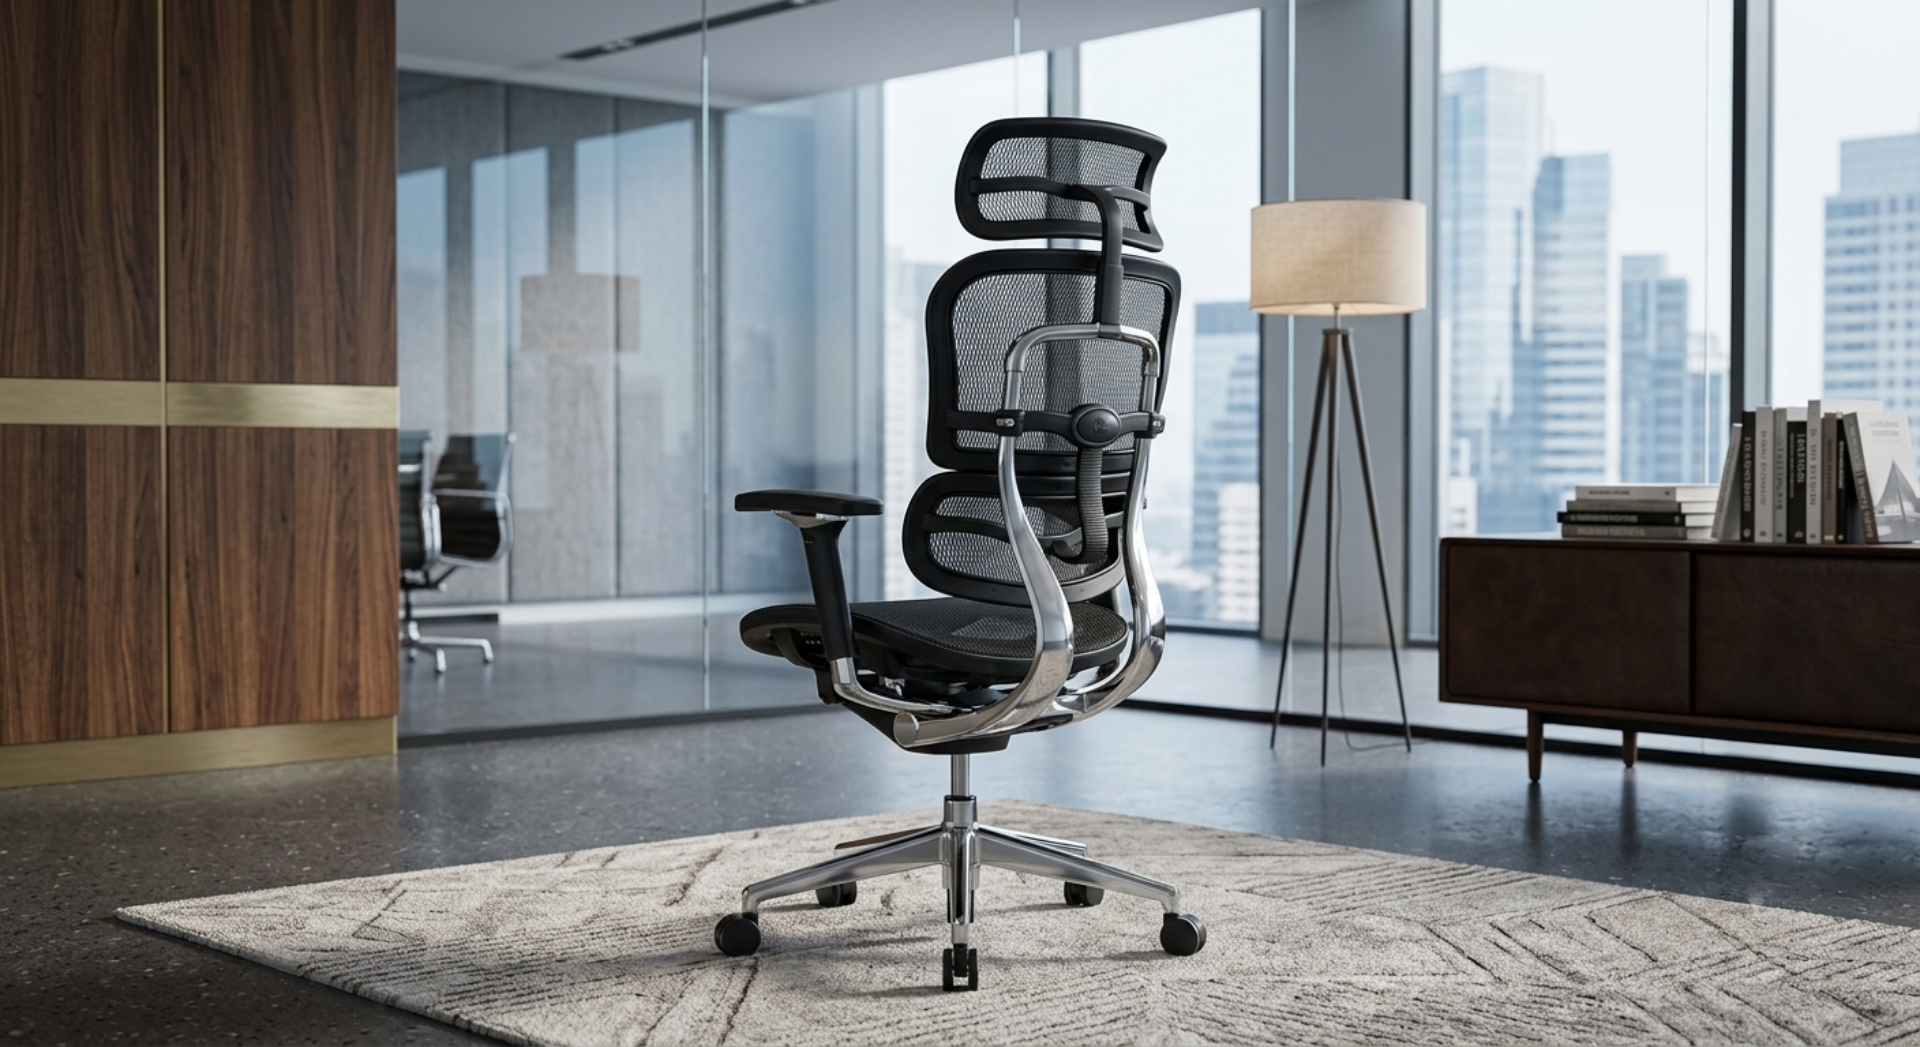
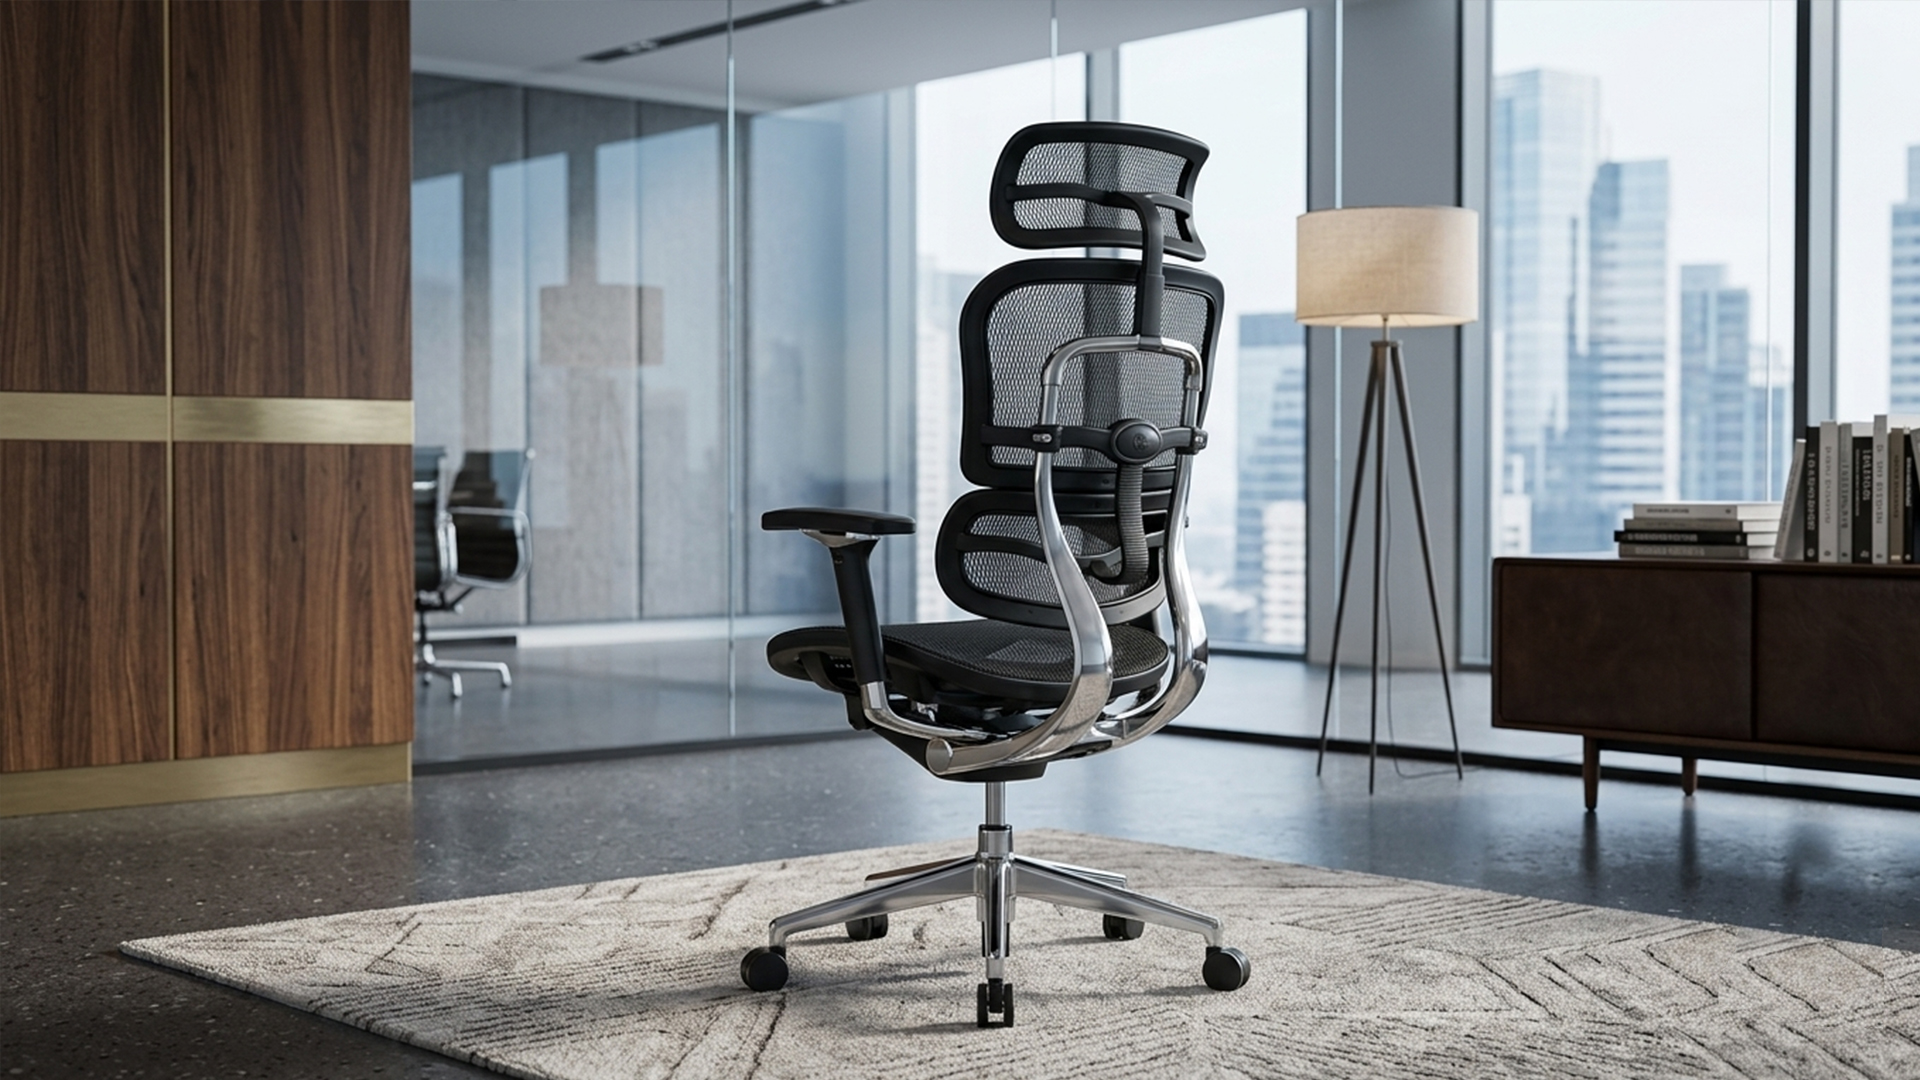
changes 01

diff --git a/Html/about.html b/Html/about.html
@@ -137,6 +137,155 @@
 
 
 
+
+<div class="my-counter-section">
+  <style>
+
+
+    .my-counter-section {
+      box-sizing: border-box;
+      font-family: 'Montserrat', sans-serif;
+     
+      background: linear-gradient(rgba(255, 255, 255, 0.4), rgba(255, 255, 255, 0.4)), 
+                  url('https://images.unsplash.com/photo-1499750310107-5fef28a66643?q=80&w=1600') no-repeat center center/cover;
+      padding: 80px 20px;
+      display: block;
+      margin-top: 150px;
+      margin-bottom: 100px;
+      width: 100%;
+    }
+
+    .my-counter-section *, .my-counter-section *::before, .my-counter-section *::after {
+      box-sizing: border-box;
+    }
+
+    /* Cards Grid Layout */
+    .my-counter-container {
+      display: grid;
+      grid-template-columns: repeat(4, 1fr);
+      gap: 25px;
+      width: 100%;
+      max-width: 1140px;
+      margin: 0 auto;
+    }
+
+    /* Exact White Card Design Like Screenshot */
+    .my-counter-card {
+      background-color: #ffffff;
+      border-radius: 15px;
+      padding: 45px 20px;
+      text-align: center;
+      box-shadow: 0 10px 30px rgba(0, 0, 0, 0.06);
+      transition: transform 0.3s ease;
+    }
+
+    .my-counter-card:hover {
+      transform: translateY(-5px);
+    }
+
+    /* Target Number Color & Typography */
+    .my-counter-number {
+      font-size: 3.2rem;
+      font-weight: 700;
+      color: #a34e56; /* Screenshot wala Maroon/Dusty Rose color */
+      margin-bottom: 15px;
+      display: block;
+      line-height: 1;
+    }
+
+    /* Bottom Labels */
+    .my-counter-label {
+      font-size: 0.75rem;
+      font-weight: 700;
+      color: #555555;
+      text-transform: uppercase;
+      letter-spacing: 1.2px;
+      display: block;
+    }
+
+    /* Responsive (Mobile aur Tablet ke liye) */
+    @media (max-width: 992px) {
+      .my-counter-container {
+        grid-template-columns: repeat(2, 1fr);
+      }
+    }
+    @media (max-width: 576px) {
+      .my-counter-container {
+        grid-template-columns: 1fr;
+      }
+    }
+  </style>
+
+  <div class="my-counter-container">
+    <div class="my-counter-card">
+      <span class="my-counter-number" data-target="37">0</span>
+      <span class="my-counter-label">Hot Destinations</span>
+    </div>
+
+    <div class="my-counter-card">
+      <span class="my-counter-number" data-target="8000" data-suffix="K">0</span>
+      <span class="my-counter-label">Happy Clients</span>
+    </div>
+
+    <div class="my-counter-card">
+      <span class="my-counter-number" data-target="85">0</span>
+      <span class="my-counter-label">Cups of Coffee</span>
+    </div>
+
+    <div class="my-counter-card">
+      <span class="my-counter-number" data-target="77">0</span>
+      <span class="my-counter-label">Visited Countries</span>
+    </div>
+  </div>
+
+  <script>
+    (function() {
+      const counters = document.querySelectorAll('.my-counter-number');
+      const speed = 80; // Animation speed
+
+      const startCounting = (counter) => {
+        const target = +counter.getAttribute('data-target');
+        const suffix = counter.getAttribute('data-suffix') || '';
+        let count = 0;
+        const increment = target / speed;
+
+        const updateCount = () => {
+          count += increment;
+          if (count < target) {
+            if (suffix === 'K') {
+              counter.innerText = Math.ceil(count / 1000) + suffix;
+            } else {
+              counter.innerText = Math.ceil(count);
+            }
+            setTimeout(updateCount, 20);
+          } else {
+            if (suffix === 'K') {
+              counter.innerText = (target / 1000) + suffix;
+            } else {
+              counter.innerText = target;
+            }
+          }
+        };
+        updateCount();
+      };
+
+      // Scroll observer - Jab screen pe section aayega tabhi count shuru hoga
+      const observer = new IntersectionObserver((entries, observer) => {
+        entries.forEach(entry => {
+          if (entry.isIntersecting) {
+            startCounting(entry.target);
+            observer.unobserve(entry.target);
+          }
+        });
+      }, { threshold: 0.3 });
+
+      counters.forEach(counter => observer.observe(counter));
+    })();
+  </script>
+</div>
+
+
+
 <!-- About intro img -->
 <section class="image-section">
     <div class="image-container reveal">

diff --git a/index.html b/index.html
@@ -78,61 +78,101 @@
 <!-- Banar section start --> 
 
 <div class="slider">
-
-    <!-- Slides -->         
-   <div class="slides">
+<!-- Slides -->         
+<div class="slides">
 
     <div class="slide">
-        <img src="img/product/1.jpg" alt="">
+        <picture>
+            <source media="(max-width: 767px)" srcset="img/home/m-1.jpg">
+            <img src="img/product/1.jpg" alt="">
+        </picture>
         <h2 class="slide-title">01 Fresh Food Experience</h2>
     </div>
 
+
     <div class="slide">
-        <img src="img/product/2.jpg" alt="">
+        <picture>
+            <source media="(max-width: 767px)" srcset="img/home/m-1.jpg">
+            <img src="img/product/2.jpg" alt="">
+        </picture>
         <h2 class="slide-title">02 Fresh Food Experience</h2>
     </div>
 
+
     <div class="slide">
-        <img src="img/jwelry/1.jpg" alt="">
+        <picture>
+            <source media="(max-width: 767px)" srcset="img/home/m-1.jpg">
+            <img src="img/jwelry/1.jpg" alt="">
+        </picture>
         <h2 class="slide-title">03 Fresh Food Experience</h2>
     </div>
 
+
     <div class="slide">
-        <img src="img/jwelry/2.jpg" alt="">
+        <picture>
+            <source media="(max-width: 767px)" srcset="img/home/m-1.jpg">
+            <img src="img/jwelry/2.jpg" alt="">
+        </picture>
         <h2 class="slide-title">04 Fresh Food Experience</h2>
     </div>
 
+
     <div class="slide">
-        <img src="img/interior/1.jpg" alt="">
+        <picture>
+            <source media="(max-width: 767px)" srcset="img/interior/1.jpg">
+            <img src="img/interior/1.jpg" alt="">
+        </picture>
         <h2 class="slide-title">05 Fresh Food Experience</h2>
     </div>
 
+
     <div class="slide">
-        <img src="img/interior/4.jpg" alt="">
+        <picture>
+            <source media="(max-width: 767px)" srcset="img/interior/4.jpg">
+            <img src="img/interior/4.jpg" alt="">
+        </picture>
         <h2 class="slide-title">06 Fresh Food Experience</h2>
     </div>
 
+
     <div class="slide">
-        <img src="img/home/home-product-banar-1.jpg" alt="">
+        <picture>
+            <source media="(max-width: 767px)" srcset="img/home/home-product-banar-1.jpg">
+            <img src="img/home/home-product-banar-1.jpg" alt="">
+        </picture>
         <h2 class="slide-title">07 Fresh Food Experience</h2>
     </div>
 
+
     <div class="slide">
-        <img src="img/home/home-food-banar-03.jpg" alt="">
+        <picture>
+            <source media="(max-width: 767px)" srcset="img/home/home-food-banar-03.jpg">
+            <img src="img/home/home-food-banar-03.jpg" alt="">
+        </picture>
         <h2 class="slide-title">08 Fresh Food Experience</h2>
     </div>
 
+
     <div class="slide">
-        <img src="img/home/home-banar-2.jpg" alt="">
+        <picture>
+            <source media="(max-width: 767px)" srcset="img/home/home-banar-2.jpg">
+            <img src="img/home/home-banar-2.jpg" alt="">
+        </picture>
         <h2 class="slide-title">09 Fresh Food Experience</h2>
     </div>
 
+
     <div class="slide">
-        <img src="img/home/home-product-banar-1.jpg" alt="">
+        <picture>
+            <source media="(max-width: 767px)" srcset="img/home/home-product-banar-1.jpg">
+            <img src="img/home/home-product-banar-1.jpg" alt="">
+        </picture>
         <h2 class="slide-title">10 Fresh Food Experience</h2>
     </div>
 
 </div>
+
+
 
     <!-- Thumbnails -->
     <div class="thumbs">
@@ -162,7 +202,18 @@
 
 <!-- banar section End-->
 
+<style>
 
+    .slides .slide picture,
+.slides .slide picture img {
+    width: 100%;
+    display: block;
+}
+
+.slides .slide img {
+    object-fit: cover;
+}
+</style>
 
 <!-- JS -->
 <script src="js/home.js"></script>

diff --git a/css/home.css b/css/home.css
@@ -409,6 +409,14 @@ body {
         width:100%;
     }
 
+
+    .pnav__logo img{
+        margin-top: 15px;
+    width:150px;
+    height:auto;
+    display:block;
+}
+
 }
 
 /* Nav section End*/
@@ -844,7 +852,7 @@ body {
     overflow: hidden;
     background: #100f0f;
     color: #fff;
-    padding: 80px 0 30px;
+    padding: 60px 0 30px;
     isolation: isolate;
 }
 
@@ -854,7 +862,7 @@ body {
     position: absolute;
 
     width: 850px;
-    height: 850px;
+    height: 250px;
 
     top: 50%;
     left: 50%;
@@ -870,6 +878,7 @@ body {
 
         radial-gradient(circle,
             transparent 18%,
+        
             rgba(255,255,255,.06) 19%,
             transparent 20%),
 
@@ -902,7 +911,7 @@ body {
     position: absolute;
 
     width: 260px;
-    height: 260px;
+    height: 160px;
 
     top: 35%;
     left: 45%;

diff --git a/css/portfolio.css b/css/portfolio.css
@@ -94,6 +94,7 @@
 
 @media (max-width: 768px) {
     .slider {
+    
         height: 350px;
         margin: 25px auto 70px auto;
         border-radius: 8px;
@@ -116,8 +117,8 @@
 
 @media (max-width: 480px) {
     .slider {
-        height: 280px;
-        margin: 30px auto 60px auto;
+        height: 320px;
+        margin: 90px auto 60px auto;
     }
 
     .prev, .next {

diff --git a/Html/industrial-2.html b/Html/industrial-2.html
@@ -139,7 +139,7 @@
 
         <a href="industrial.html" class="page-link">1</a>
         <a href="industrial-2.html" class="page-link active">2</a>
-        <a href="#" class="page-link">3</a>
+        <a href="industrial-3.html" class="page-link">3</a>
         <a href="#" class="page-link arrow">&#10095;</a>
 
     </div>

diff --git a/Html/industrial.html b/Html/industrial.html
@@ -176,7 +176,7 @@
 
         <a href="industrial.html" class="page-link active">1</a>
         <a href="industrial-2.html" class="page-link">2</a>
-        <a href="#" class="page-link">3</a>
+        <a href="industrial-3.html" class="page-link">3</a>
         <a href="#" class="page-link arrow">&#10095;</a>
 
     </div>

diff --git a/Html/interior-2.html b/Html/interior-2.html
@@ -137,7 +137,7 @@
 
         <a href="interior.html" class="page-link ">1</a>
         <a href="interior-2.html" class="page-link active">2</a>
-        <a href="#" class="page-link">3</a>
+        <a href="interior-3.html" class="page-link">3</a>
         <a href="#" class="page-link arrow">&#10095;</a>
 
     </div>